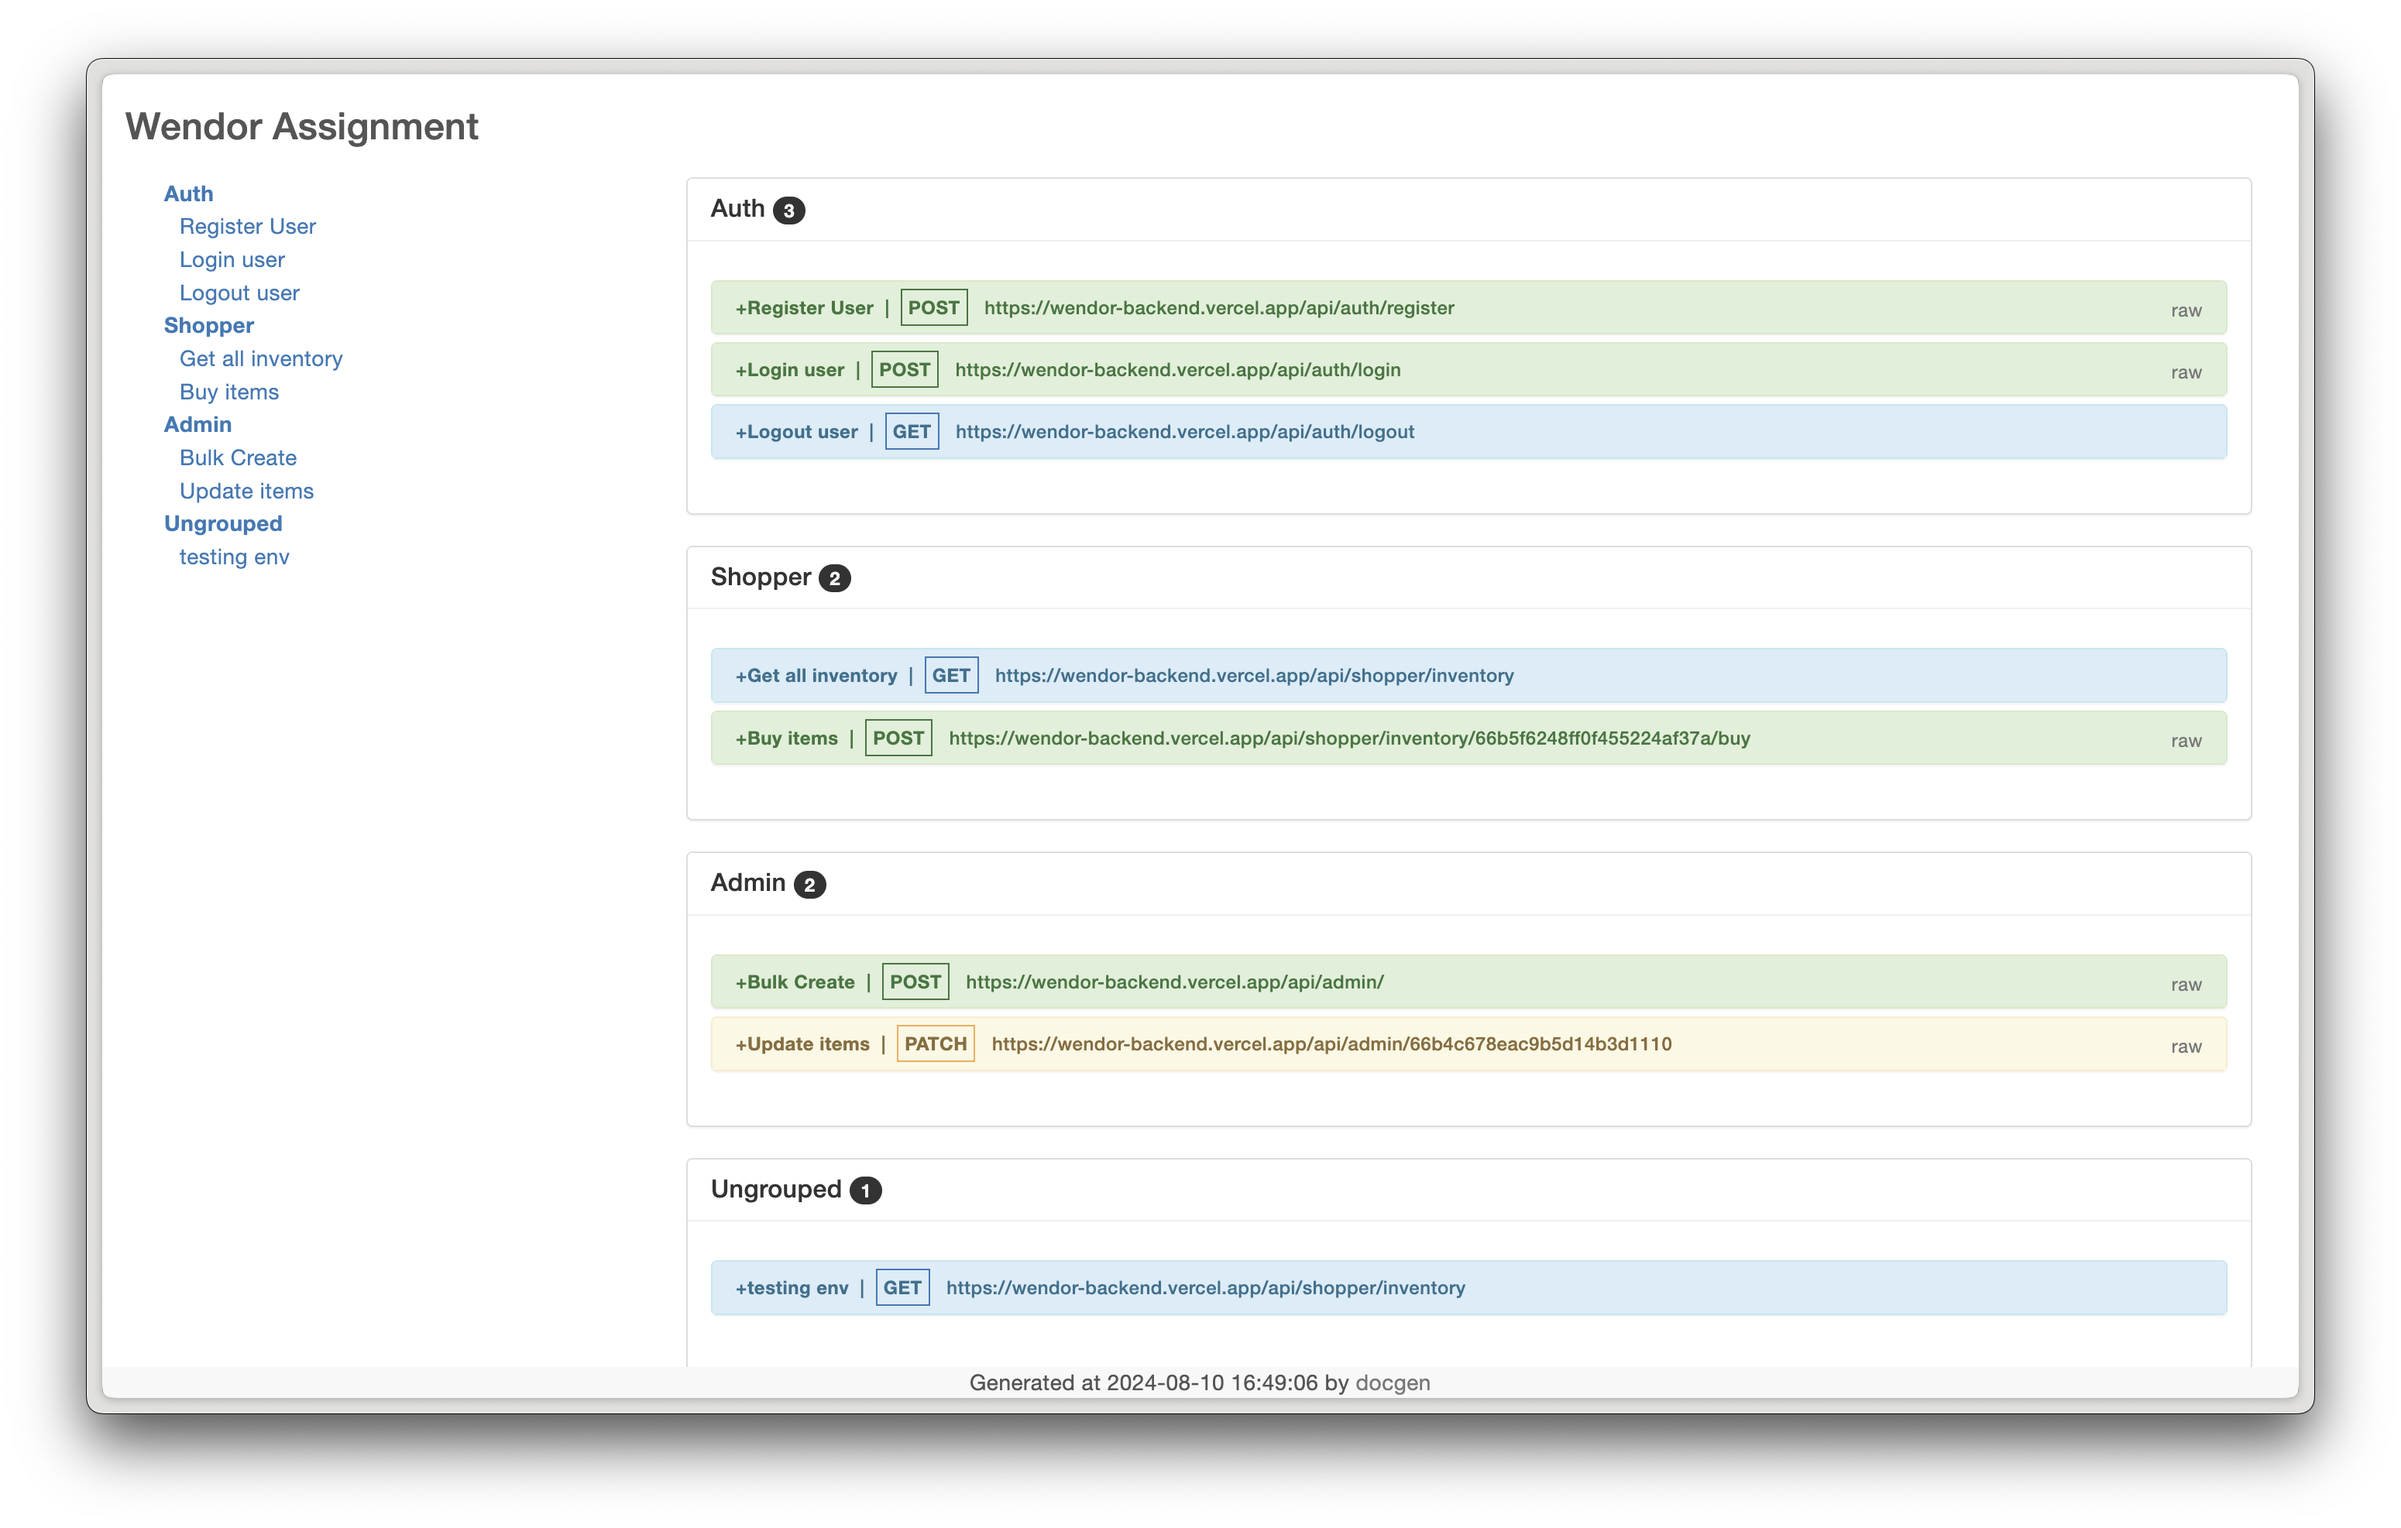
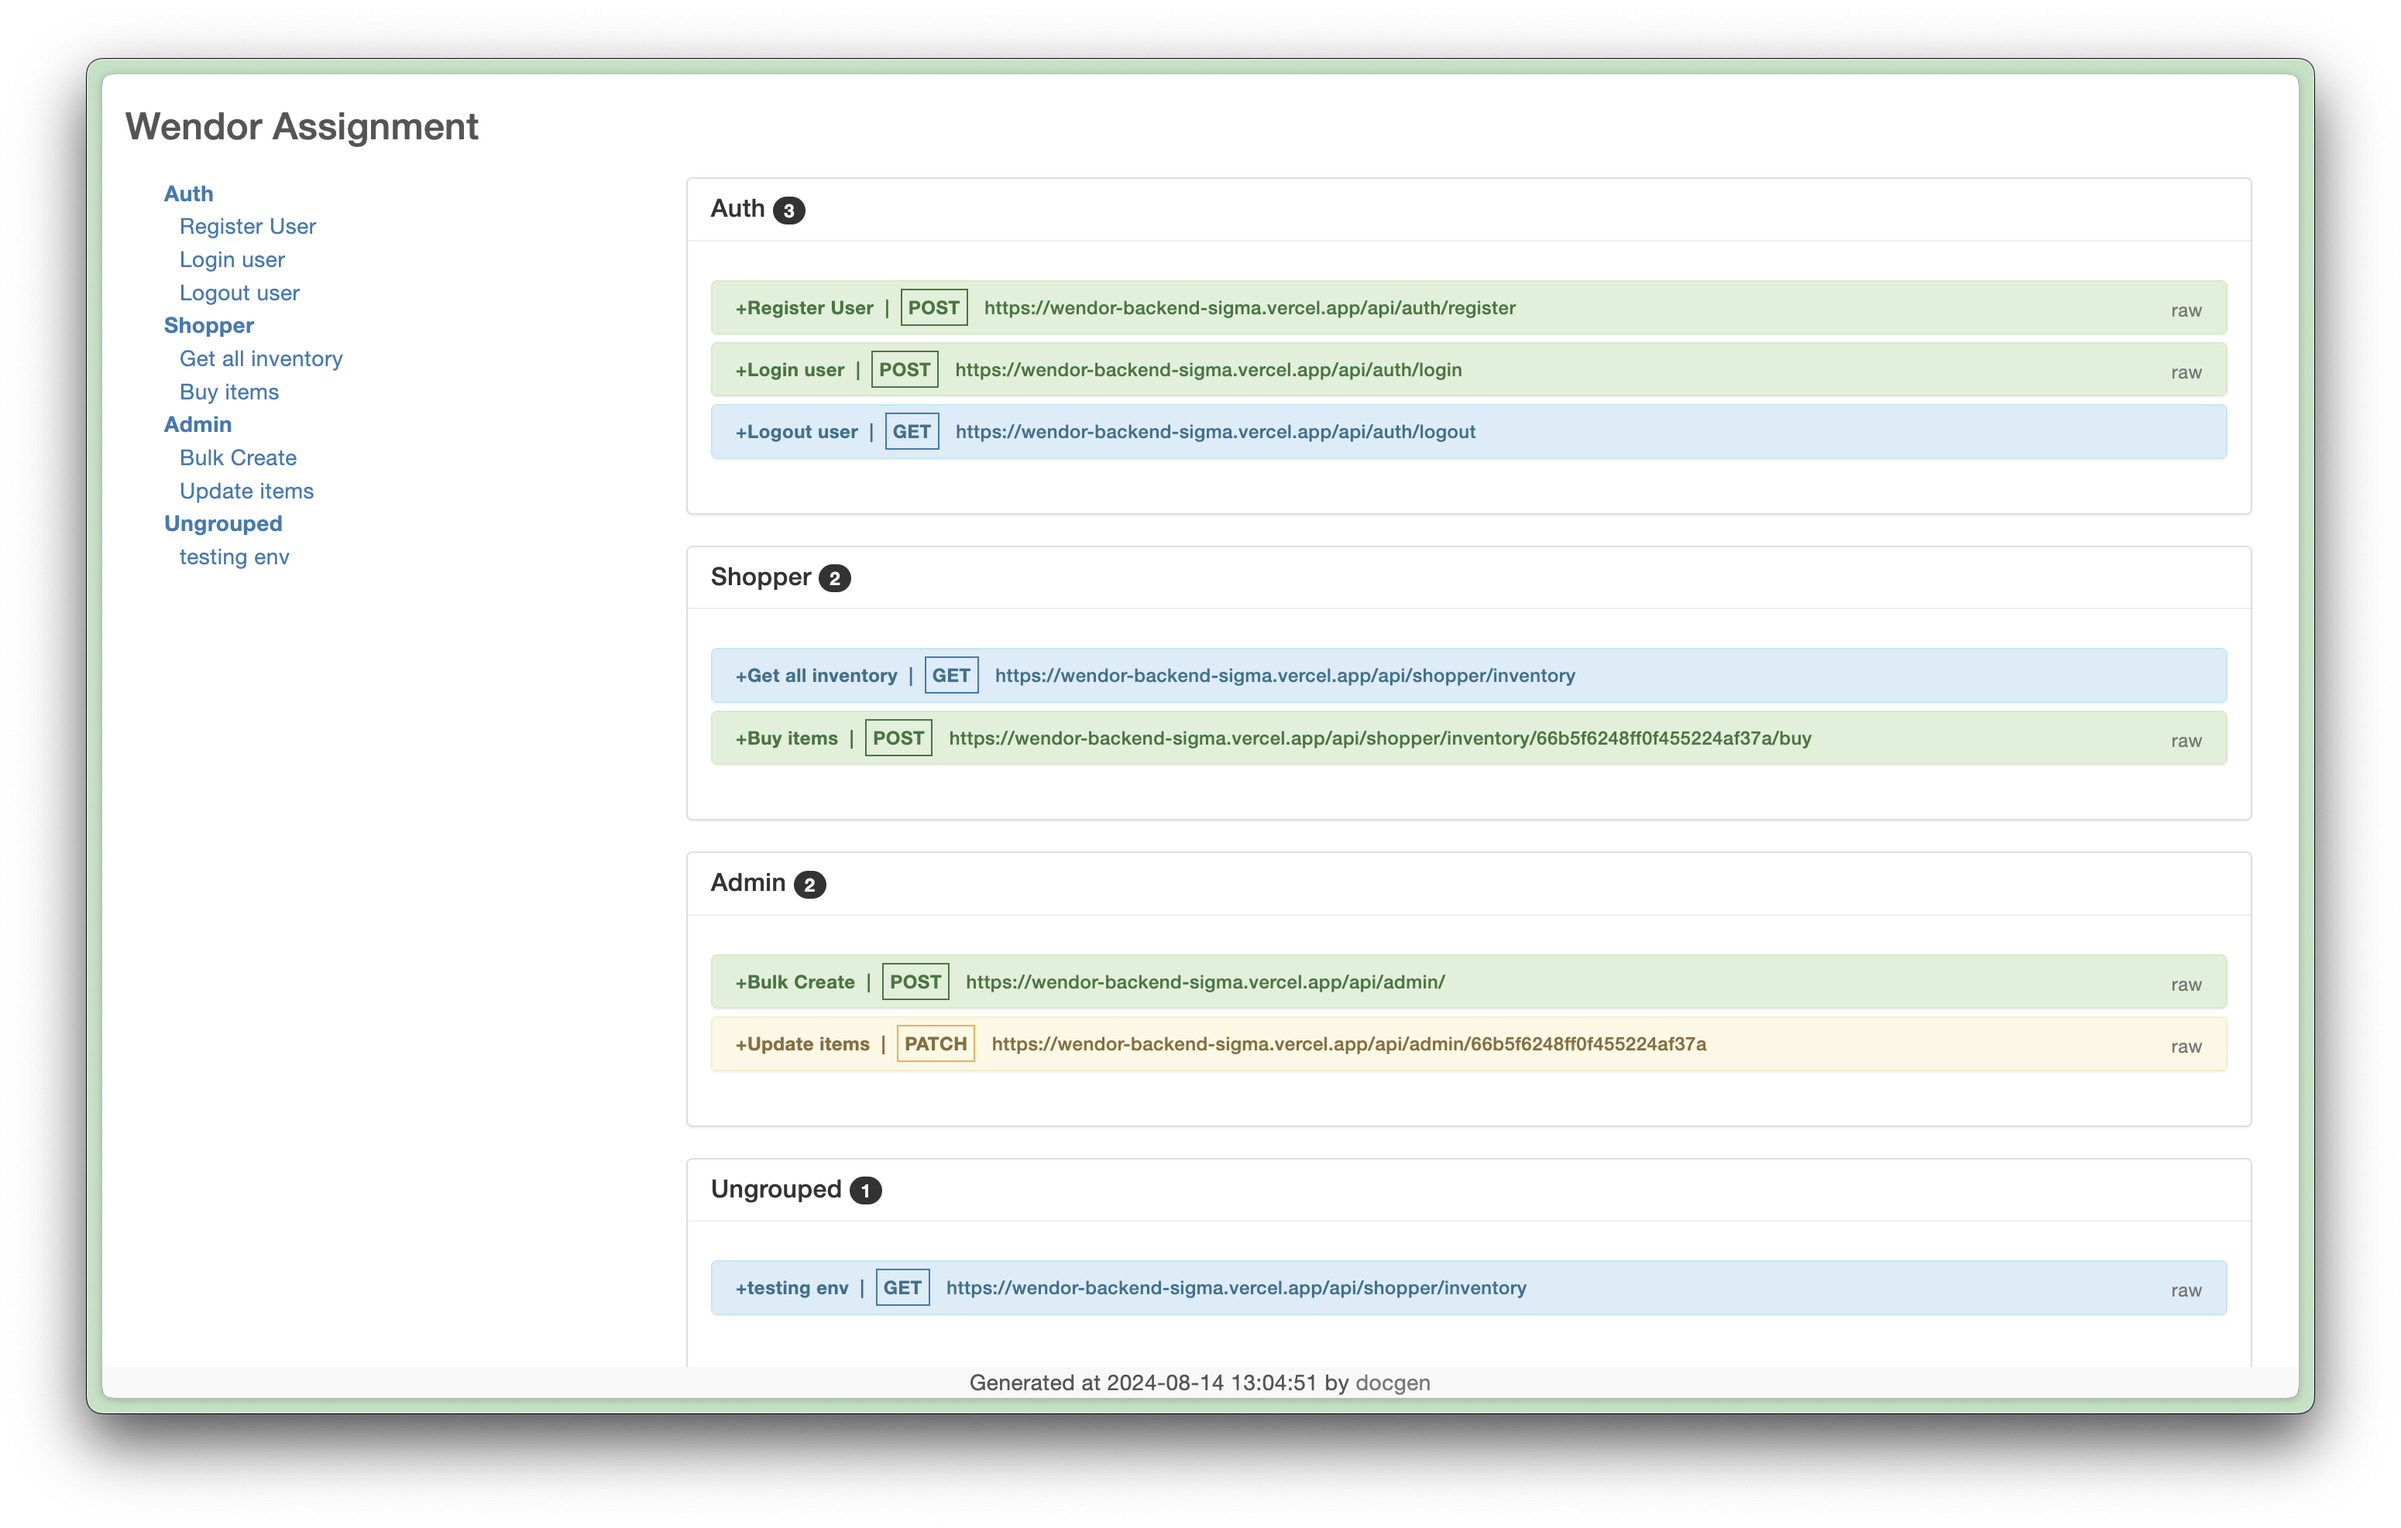
update docs

diff --git a/README.md b/README.md
@@ -6,11 +6,11 @@ This project was created using Node.js, ExpressJS, Mongoose and MongoDB. It uses
 
 To run this project, in the project directory, run:
 
-### `npm install`
+#### `npm install`
 
 Installs all the dependencies required to run the project.
 
-### Set up the .env folder in project root directory
+#### Set up the .env folder in project root directory
 
 Set up these environment variables:
 - `MONGO_URI` - MongoDB connection string
@@ -21,17 +21,19 @@ Set up these environment variables:
 
 Then run:
 
-### `npm start`
+#### `npm start`
 
 Runs the app in the development mode.\
 Open http://localhost:< PORT > to view it in your browser.
+
+If the PORT variable is not defined in the `.env` file, the server will run on http://localhost:8000 by default.
 
 The page will reload when you make changes.\
 You may also see any errors in the console.
 
 ## Documentation
 
-Documentation for the project is available on [https://wendor-backend.vercel.app/](https://wendor-backend.vercel.app/)
+Documentation for the project is available on [https://wendor-backend-sigma.vercel.app/](https://wendor-backend-sigma.vercel.app/)
 
 ## Screenshots
 
